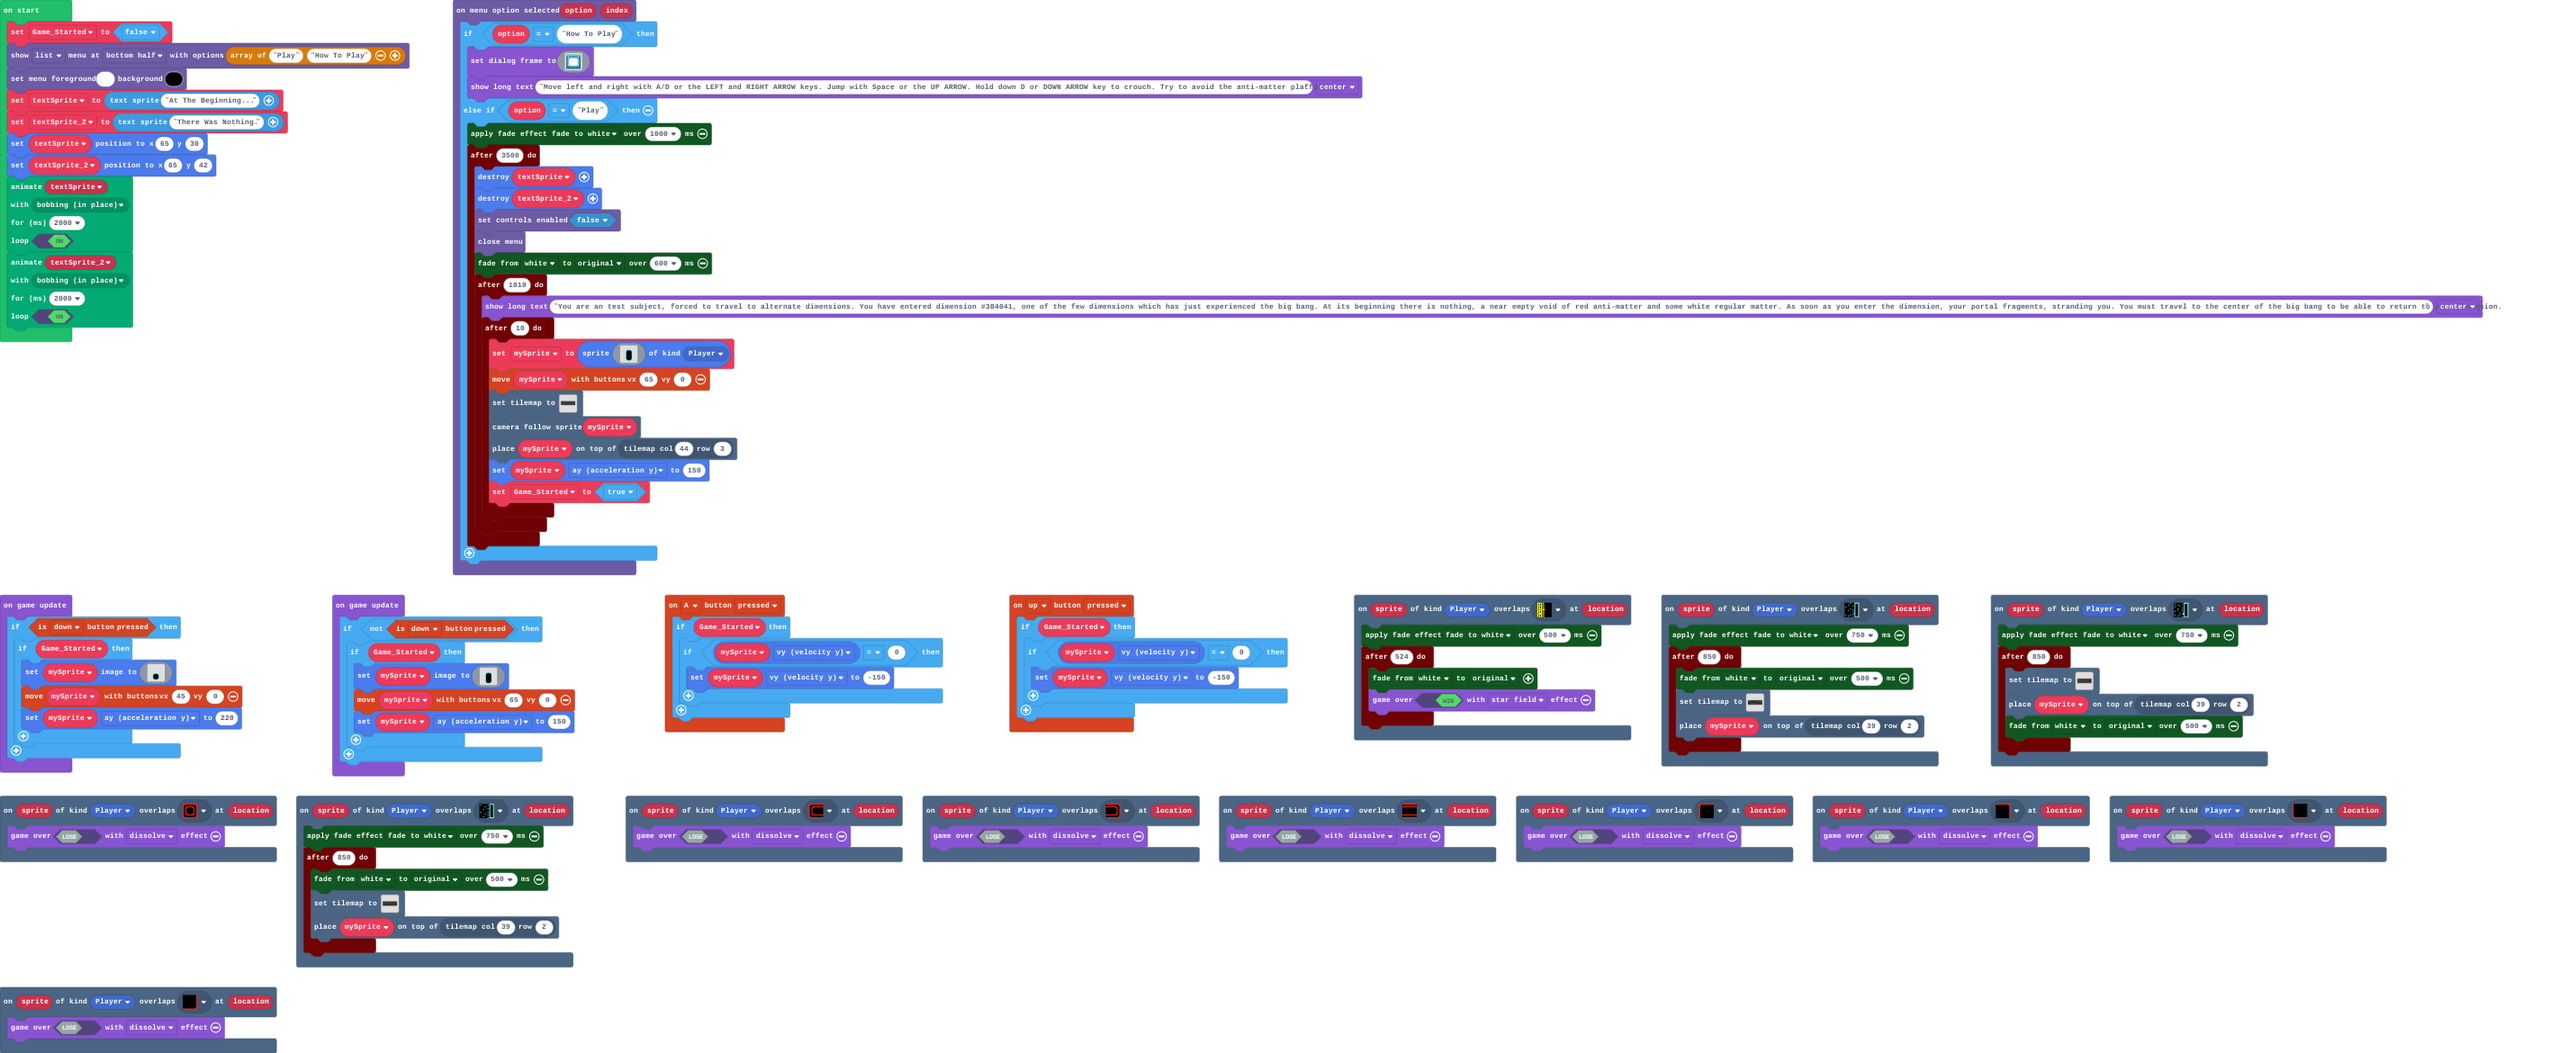
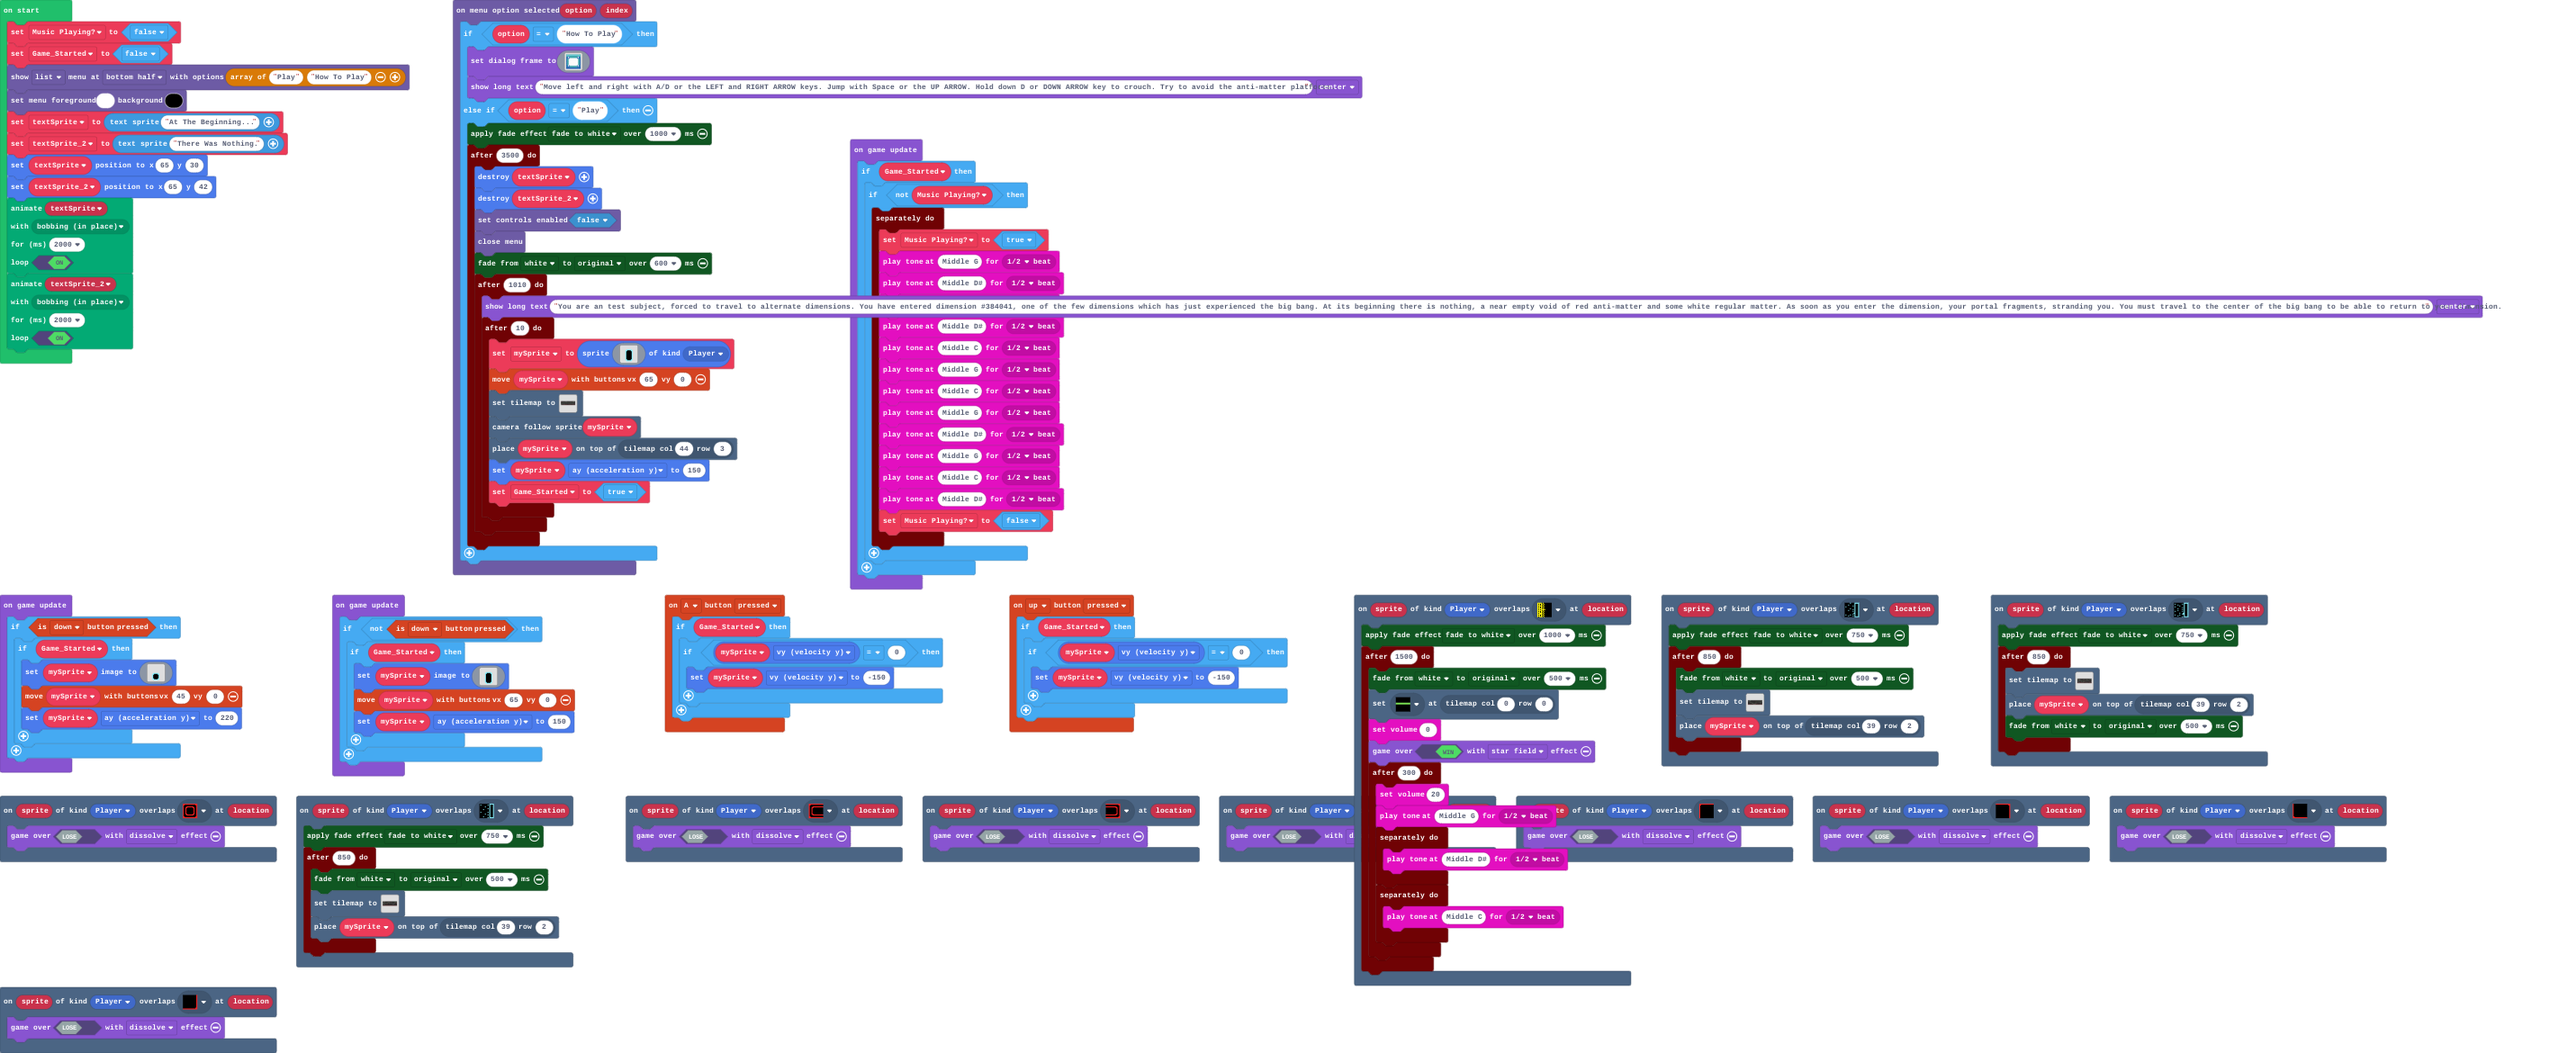
Update pxt.json, main.blocks, main.ts, tilemap.g.jres, tilemap.g.ts

Changed region(s): [[0.311, 0.1231, 0.4354, 0.5846], [0.4976, 0.5846, 0.653, 0.9538], [0.0, 0.0308, 0.1555, 0.3692]]

diff --git a/tilemap.g.ts b/tilemap.g.ts
@@ -106,21 +106,6 @@ namespace myTiles {
 . . . . . . . . . . . . . . . . 
 . . . . . . . . . . . . . . . . 
 `, [myTiles.transparency16], TileScale.Sixteen);
-            case "level1":
[1 lines of base64/hex data omitted]
-.............................................
-...............2222..........................
-......................................222....
-...............................2.............
-........2...................................2
-.............................................
-.222.....222222..22..2222...222222...........
-.222..2......................................
-.222...............................22222.....
-..............................2..............
-22.......222.................................
-2222.........................................
-`, [myTiles.transparency16,myTiles.tile1,myTiles.tile2,myTiles.tile3,myTiles.tile4,myTiles.tile5,myTiles.tile11,myTiles.tile12,myTiles.tile13,myTiles.tile14,myTiles.tile18,myTiles.tile19,myTiles.tile20,myTiles.tile21,myTiles.tile22,myTiles.tile25,myTiles.tile26,myTiles.tile27,myTiles.tile28,myTiles.tile24,myTiles.tile6,myTiles.tile23,myTiles.tile29,myTiles.tile30,myTiles.tile31,myTiles.tile32,myTiles.tile34,myTiles.tile35,myTiles.tile36], TileScale.Sixteen);
             case "level2":
[1 lines of base64/hex data omitted]
 ........................................
@@ -185,6 +170,21 @@ namespace myTiles {
 ....222.....22.........2................
 ...........................22...........
 `, [myTiles.transparency16,myTiles.tile24,myTiles.tile1,myTiles.tile3,myTiles.tile4,myTiles.tile5,myTiles.tile11,myTiles.tile13,myTiles.tile14,myTiles.tile2,myTiles.tile23,myTiles.tile29,myTiles.tile31,myTiles.tile32,myTiles.tile40,myTiles.tile30,myTiles.tile35,myTiles.tile36,myTiles.tile33,myTiles.tile37,myTiles.tile38,myTiles.tile34,myTiles.tile39,myTiles.tile41], TileScale.Sixteen);
+            case "level1":
[1 lines of base64/hex data omitted]
+.............................................
+...............2222..........................
+......................................222....
+...............................2.............
+........2...................................2
+.............................................
+.222.....222222..22..2222...222222...........
+.222..2......................................
+.222...............................22222.....
+..............................2..............
+22.......222.................................
+2222.........................................
+`, [myTiles.transparency16,myTiles.tile1,myTiles.tile2,myTiles.tile3,myTiles.tile4,myTiles.tile5,myTiles.tile11,myTiles.tile12,myTiles.tile13,myTiles.tile14,myTiles.tile18,myTiles.tile19,myTiles.tile20,myTiles.tile21,myTiles.tile22,myTiles.tile25,myTiles.tile26,myTiles.tile27,myTiles.tile28,myTiles.tile24,myTiles.tile6,myTiles.tile23,myTiles.tile29,myTiles.tile30,myTiles.tile31,myTiles.tile32,myTiles.tile34,myTiles.tile35,myTiles.tile36], TileScale.Sixteen);
         }
         return null;
     })

diff --git a/main.ts b/main.ts
@@ -5,10 +5,22 @@ scene.onOverlapTile(SpriteKind.Player, assets.tile`myTile1`, function (sprite, l
     game.over(false, effects.dissolve)
 })
 scene.onOverlapTile(SpriteKind.Player, assets.tile`myTile38`, function (sprite, location) {
-    color.FadeToWhite.startScreenEffect(500)
-    timer.after(524, function () {
-        color.startFade(color.White, color.originalPalette)
+    color.FadeToWhite.startScreenEffect(1000)
+    timer.after(1500, function () {
+        color.startFade(color.White, color.originalPalette, 500)
+        tiles.setTileAt(tiles.getTileLocation(0, 0), assets.tile`myTile30`)
+        music.setVolume(0)
         game.over(true, effects.starField)
+        timer.after(300, function () {
+            music.setVolume(20)
+            music.playTone(392, music.beat(BeatFraction.Half))
+            timer.background(function () {
+                music.playTone(311, music.beat(BeatFraction.Half))
+            })
+            timer.background(function () {
+                music.playTone(262, music.beat(BeatFraction.Half))
+            })
+        })
     })
 })
 controller.up.onEvent(ControllerButtonEvent.Pressed, function () {
@@ -137,9 +149,10 @@ scene.onOverlapTile(SpriteKind.Player, assets.tile`myTile14`, function (sprite, 
     })
 })
 let mySprite: Sprite = null
-let textSprite_2: TextSprite = null
-let textSprite: TextSprite = null
+let textSprite_2: Sprite = null
+let textSprite: Sprite = null
 let Game_Started = false
+let Music_Playing = false
 Game_Started = false
 blockMenu.showMenu(["Play", "How To Play"], MenuStyle.List, MenuLocation.BottomHalf)
 blockMenu.setColors(1, 15)
@@ -159,6 +172,28 @@ animation.animationPresets(animation.bobbing),
 2000,
 true
 )
+game.onUpdate(function () {
+    if (Game_Started) {
+        if (!(Music_Playing)) {
+            timer.background(function () {
+                Music_Playing = true
+                music.playTone(392, music.beat(BeatFraction.Half))
+                music.playTone(311, music.beat(BeatFraction.Half))
+                music.playTone(262, music.beat(BeatFraction.Half))
+                music.playTone(311, music.beat(BeatFraction.Half))
+                music.playTone(262, music.beat(BeatFraction.Half))
+                music.playTone(392, music.beat(BeatFraction.Half))
+                music.playTone(262, music.beat(BeatFraction.Half))
+                music.playTone(392, music.beat(BeatFraction.Half))
+                music.playTone(311, music.beat(BeatFraction.Half))
+                music.playTone(392, music.beat(BeatFraction.Half))
+                music.playTone(262, music.beat(BeatFraction.Half))
+                music.playTone(311, music.beat(BeatFraction.Half))
+                Music_Playing = false
+            })
+        }
+    }
+})
 game.onUpdate(function () {
     if (controller.down.isPressed()) {
         if (Game_Started) {
